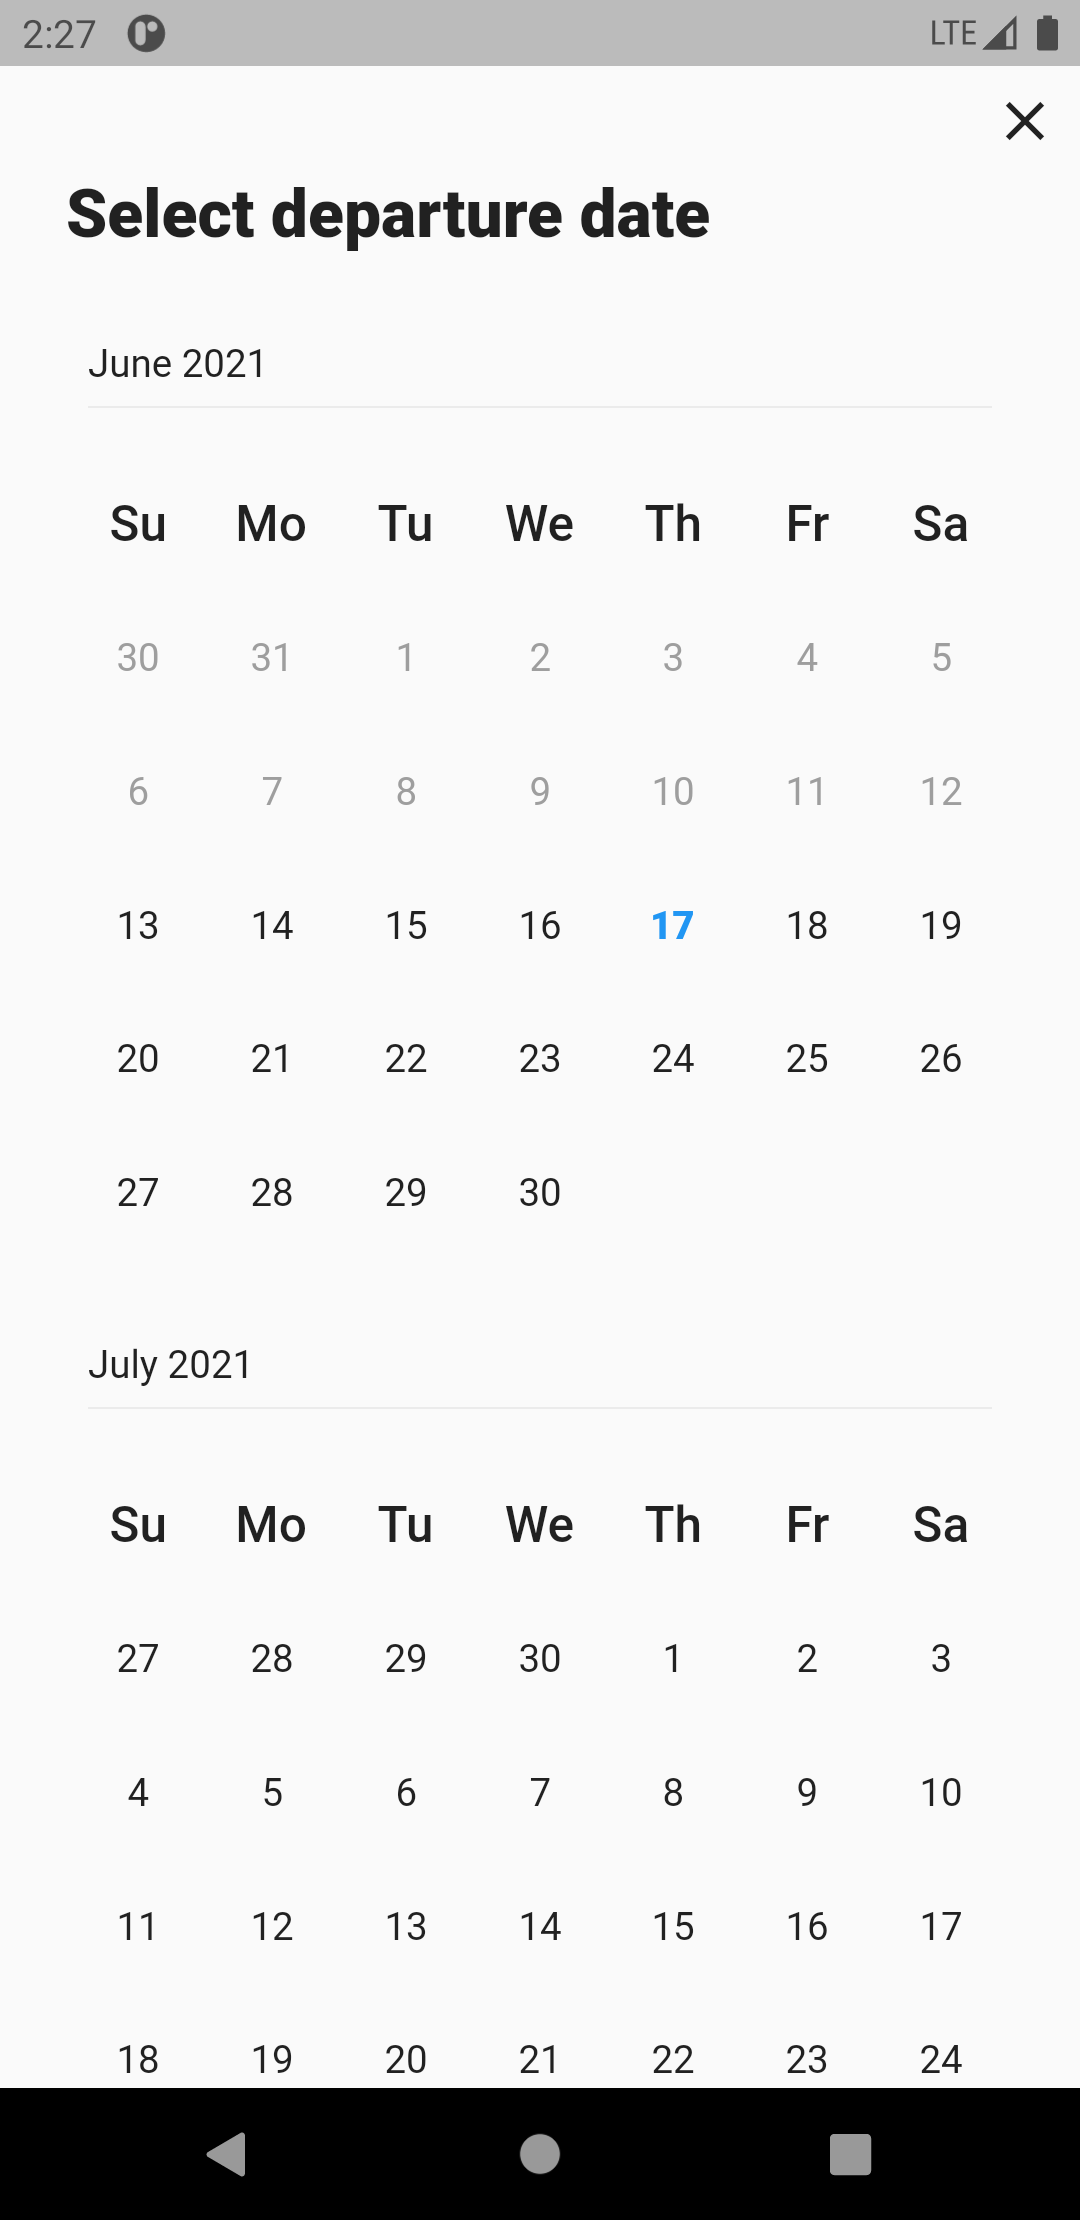
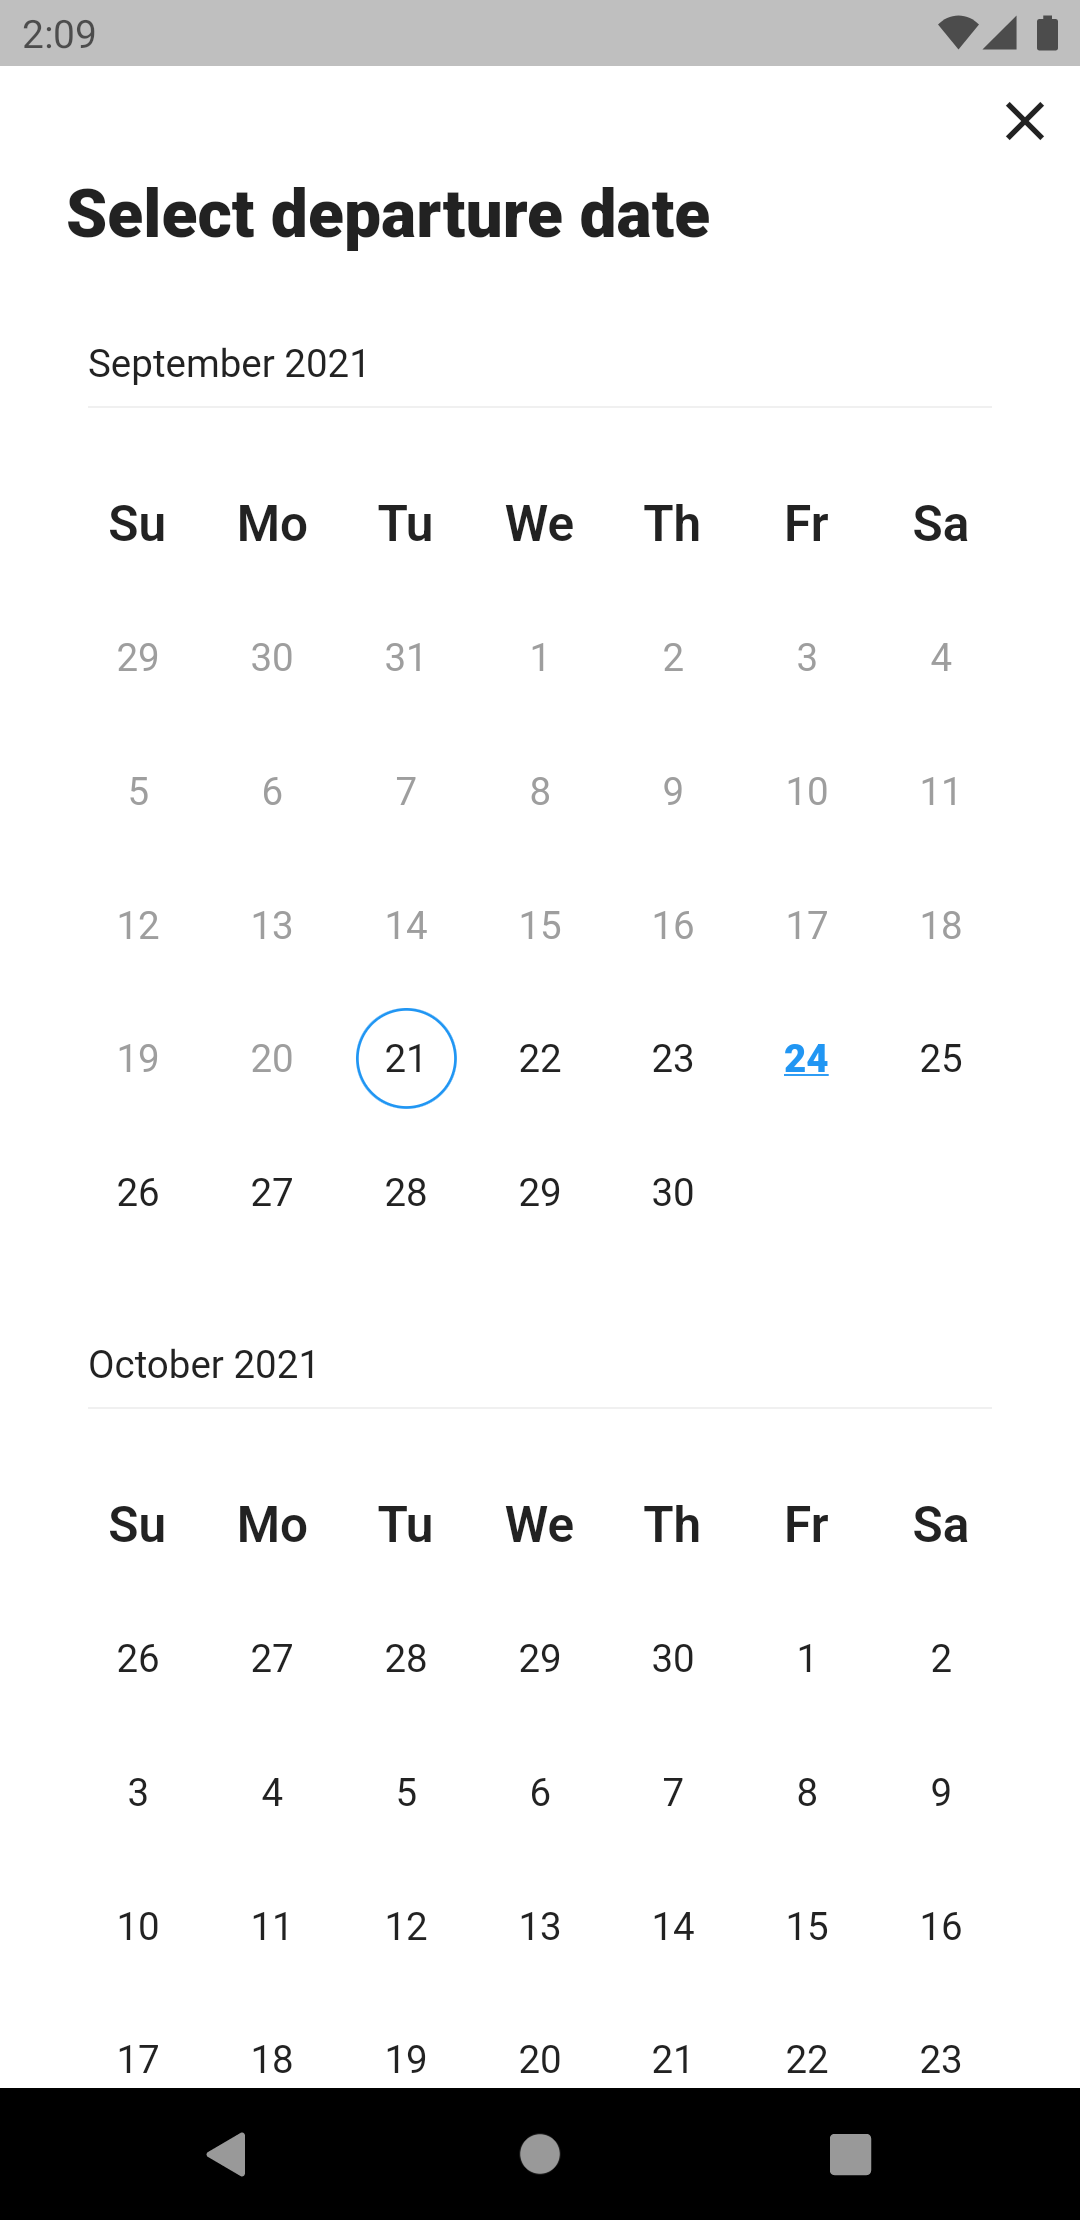
Update readme and version

diff --git a/CHANGELOG.md b/CHANGELOG.md
@@ -1,3 +1,3 @@
-## [0.0.1] - TODO: Add release date.
+## [0.0.3] - Highlight current day
 
-* TODO: Describe initial release.
+* Added a circle around the current date to highlight it
